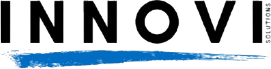
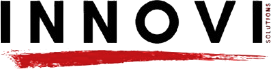
Rebrand accent color to red, remove Selected Work section, add scroll reveal animations
- Swap primary accent from blue to red (#b71316) across buttons, labels, logo swoosh, and charts
- Change Trust & Security and Data Pipeline sections to black backgrounds
- Remove the Selected Work section (case studies + client logos) and its now-dead nav links
- Add staggered fade-up reveal animation to the What We Do list and Data Pipeline grid

diff --git a/components/data-handling-dialog.tsx b/components/data-handling-dialog.tsx
@@ -17,6 +17,7 @@ import {
 import { SiteHeader } from './site-header'
 import { PipelineStepModal, type PipelineStepDetail } from './pipeline-step-modal'
 import { AccessControlVisual, CollectionVisual, ScopingVisual } from './pipeline-visuals'
+import { useReveal } from '@/lib/use-reveal'
 
 interface DataHandlingDialogProps {
   open: boolean
@@ -131,6 +132,7 @@ const FEATURES = [
 export function DataHandlingDialog({ open, onClose, onNavigate }: DataHandlingDialogProps) {
   const containerRef = useRef<HTMLDivElement>(null)
   const [selectedStep, setSelectedStep] = useState<PipelineStepDetail | null>(null)
+  const { ref: pipelineGridRef, visible: pipelineVisible } = useReveal<HTMLDivElement>()
 
   const handleLinkClickCapture = (event: MouseEvent<HTMLDivElement>) => {
     if ((event.target as HTMLElement).closest('a')) onNavigate()
@@ -210,7 +212,7 @@ export function DataHandlingDialog({ open, onClose, onNavigate }: DataHandlingDi
           </p>
         </div>
 
-        <div className="mt-10 border border-border bg-primary text-primary-foreground sm:mt-14">
+        <div className="mt-10 border border-border bg-black text-primary-foreground sm:mt-14">
           <div className="flex items-center justify-between border-b border-primary-foreground/10 px-5 py-4 sm:px-8">
             <h3 className="text-lg font-bold sm:text-xl">Data Pipeline</h3>
             <div className="flex items-center gap-4 font-mono text-[10px] uppercase tracking-[0.15em] text-primary-foreground/60">
@@ -225,15 +227,21 @@ export function DataHandlingDialog({ open, onClose, onNavigate }: DataHandlingDi
             </div>
           </div>
 
-          <div className="grid grid-cols-1 gap-px bg-primary-foreground/10 sm:grid-cols-2 lg:grid-cols-4">
-            {PIPELINE_STEPS.map((detail) => {
+          <div
+            ref={pipelineGridRef}
+            className="grid grid-cols-1 gap-px bg-primary-foreground/10 sm:grid-cols-2 lg:grid-cols-4"
+          >
+            {PIPELINE_STEPS.map((detail, index) => {
               const { step, icon: Icon, title, description, tag } = detail
               return (
                 <button
                   key={step}
                   type="button"
                   onClick={() => setSelectedStep(detail)}
-                  className="group/step relative flex flex-col bg-primary p-6 text-left transition-all duration-300 ease-out hover:z-10 hover:-translate-y-1.5 hover:bg-primary-foreground/[0.04] hover:shadow-[0_16px_32px_-12px_rgba(0,0,0,0.55)] focus-visible:z-10 focus-visible:outline-none focus-visible:ring-2 focus-visible:ring-accent/70"
+                  style={{ transitionDelay: pipelineVisible ? `${index * 60}ms` : '0ms' }}
+                  className={`group/step relative flex flex-col bg-black p-6 text-left transition-all duration-500 ease-out hover:z-10 hover:-translate-y-1.5 hover:bg-primary-foreground/[0.04] hover:shadow-[0_16px_32px_-12px_rgba(0,0,0,0.55)] focus-visible:z-10 focus-visible:outline-none focus-visible:ring-2 focus-visible:ring-accent/70 ${
+                    pipelineVisible ? 'opacity-100 translate-y-0' : 'opacity-0 translate-y-3'
+                  }`}
                 >
                   <div className="mb-4 flex items-start justify-between">
                     <span className="flex h-9 w-9 items-center justify-center border border-primary-foreground/15 bg-primary-foreground/5 transition-colors duration-300 group-hover/step:border-accent/50 group-hover/step:bg-accent/10">

diff --git a/components/what-we-do.tsx b/components/what-we-do.tsx
@@ -3,6 +3,7 @@
 import { Minus, Plus } from "lucide-react";
 import { useState } from "react";
 import { ForgeDiagram } from "./forge-diagram";
+import { useReveal } from "@/lib/use-reveal";
 
 const SERVICES = [
   {
@@ -29,6 +30,7 @@ const SERVICES = [
 
 export function WhatWeDo() {
   const [openIndex, setOpenIndex] = useState(0);
+  const { ref: listRef, visible: listVisible } = useReveal<HTMLDivElement>();
 
   return (
     <section id="services" className="border-b border-border">
@@ -44,11 +46,17 @@ export function WhatWeDo() {
 
         <div className="mt-14 grid grid-cols-1 gap-12 lg:grid-cols-2 lg:gap-16">
           {/* accordion */}
-          <div className="border-t border-border">
+          <div ref={listRef} className="border-t border-border">
             {SERVICES.map((service, i) => {
               const isOpen = i === openIndex;
               return (
-                <div key={service.n} className="border-b border-border">
+                <div
+                  key={service.n}
+                  style={{ transitionDelay: listVisible ? `${i * 90}ms` : "0ms" }}
+                  className={`border-b border-border transition-all duration-500 ease-out ${
+                    listVisible ? "opacity-100 translate-y-0" : "opacity-0 translate-y-3"
+                  }`}
+                >
                   <button
                     type="button"
                     onClick={() => setOpenIndex(isOpen ? -1 : i)}

diff --git a/lib/use-reveal.ts b/lib/use-reveal.ts
@@ -1,0 +1,36 @@
+'use client'
+
+import { useCallback, useRef, useState } from 'react'
+
+// Tracks whether an element has scrolled into view, for one-time staggered
+// reveal animations. Stays true once triggered so items don't re-hide.
+//
+// Uses a callback ref rather than useEffect + a plain ref: the target can
+// mount well after this hook's owning component first renders (e.g. content
+// inside a dialog that renders `null` until opened), and a plain ref read
+// inside a one-time effect would miss that later attachment entirely.
+export function useReveal<T extends HTMLElement>(threshold = 0.15) {
+  const [visible, setVisible] = useState(false)
+  const observerRef = useRef<IntersectionObserver | null>(null)
+
+  const ref = useCallback(
+    (node: T | null) => {
+      observerRef.current?.disconnect()
+      if (!node) return
+
+      observerRef.current = new IntersectionObserver(
+        ([entry]) => {
+          if (entry.isIntersecting) {
+            setVisible(true)
+            observerRef.current?.disconnect()
+          }
+        },
+        { threshold },
+      )
+      observerRef.current.observe(node)
+    },
+    [threshold],
+  )
+
+  return { ref, visible }
+}

diff --git a/components/trust.tsx b/components/trust.tsx
@@ -44,7 +44,7 @@ export function Trust() {
   }, [])
 
   return (
-    <section className="border-b border-border bg-primary text-primary-foreground">
+    <section className="border-b border-border bg-black text-primary-foreground">
       <div className="relative overflow-hidden">
         {/* faint grid */}
         <div
@@ -57,7 +57,7 @@ export function Trust() {
           }}
         />
         <div className="relative mx-auto max-w-4xl px-5 py-24 text-center sm:px-8 sm:py-32">
-          <span className="font-mono text-xs uppercase tracking-[0.25em] text-amber">
+          <span className="font-mono text-xs uppercase tracking-[0.25em] text-accent">
             Trust &amp; Security
           </span>
           <h2 className="mx-auto mt-5 max-w-3xl text-balance text-3xl font-bold leading-tight tracking-tight sm:text-5xl">

diff --git a/app/globals.css b/app/globals.css
@@ -66,17 +66,17 @@
   --muted: oklch(0.946 0.006 240);
   --muted-foreground: oklch(0.5 0.025 255);
   /* logo blue as the primary accent */
-  --accent: oklch(0.54 0.19 252);
+  --accent: #b71316;
   --accent-foreground: oklch(0.985 0.004 240);
   --destructive: oklch(0.577 0.245 27.325);
   --border: oklch(0.88 0.008 240);
   --input: oklch(0.88 0.008 240);
-  --ring: oklch(0.54 0.19 252);
+  --ring: #b71316;
   /* INNOVI logo accents: blue, cyan, orange spark */
-  --copper: oklch(0.54 0.19 252);
-  --bronze: oklch(0.72 0.14 218);
+  --copper: #b71316;
+  --bronze: #b71316;
   --amber: oklch(0.72 0.17 52);
-  --chart-1: oklch(0.54 0.19 252);
+  --chart-1: #b71316;
   --chart-2: oklch(0.72 0.14 218);
   --chart-3: oklch(0.72 0.17 52);
   --chart-4: oklch(0.25 0.04 258);

diff --git a/app/page.tsx b/app/page.tsx
@@ -1,7 +1,6 @@
 import { SiteHeader } from '@/components/site-header'
 import { Hero } from '@/components/hero'
 import { WhatWeDo } from '@/components/what-we-do'
-import { Work } from '@/components/work'
 import { HowWeWork } from '@/components/how-we-work'
 import { Trust } from '@/components/trust'
 import { Process } from '@/components/process'
@@ -17,7 +16,6 @@ export default function Home() {
       <main>
         <Hero />
         <WhatWeDo />
-        <Work />
         <HowWeWork />
         <Trust />
         <Process />

diff --git a/components/hero.tsx b/components/hero.tsx
@@ -43,9 +43,6 @@ export function Hero() {
 
         <div className="mt-9 flex flex-col items-center justify-center gap-3 sm:flex-row">
           <BracketButton href="/contact">Book a Session</BracketButton>
-          <BracketButton href="#work" variant="outline">
-            See Our Work
-          </BracketButton>
         </div>
 
         {/* below-fold numbered strip */}

diff --git a/components/site-footer.tsx b/components/site-footer.tsx
@@ -3,7 +3,6 @@ import Link from 'next/link'
 
 const LINKS = [
   { label: 'SERVICES', href: '/#services' },
-  { label: 'WORK', href: '/#work' },
   { label: 'HOW WE WORK', href: '/#how-we-work' },
   { label: 'ABOUT', href: '/#about' },
   { label: 'CONTACT', href: '/contact' },

diff --git a/components/site-header.tsx b/components/site-header.tsx
@@ -8,7 +8,6 @@ import { BracketButton } from './bracket-button'
 
 const NAV = [
   { label: 'SERVICES', href: '/#services' },
-  { label: 'WORK', href: '/#work' },
   { label: 'HOW WE WORK', href: '/#how-we-work' },
   { label: 'ABOUT', href: '/#about' },
 ]
